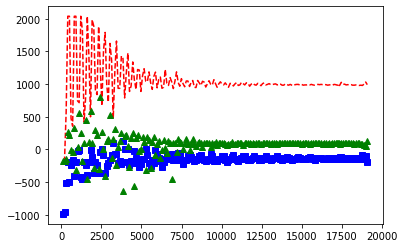
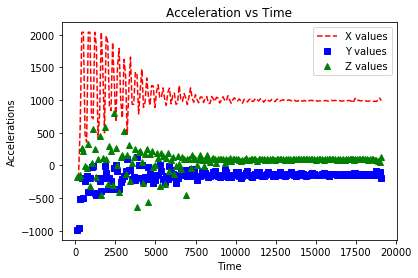
2.0

diff --git a/Step 4/analysis.py b/Step 4/analysis.py
@@ -28,10 +28,9 @@ def create_array(name):
     fout.close()
 
     array = np.loadtxt(outname, delimiter=",", dtype=float)
-    print(array)
     return array
 
-def acc_array():
+def acc_array(array):
     t = array[:,0]
     x = array[:,1]
     y = array[:,2]
@@ -39,11 +38,10 @@ def acc_array():
     plt.plot(t, x, 'r--', t, y, 'bs', t, z, 'g^')
     plt.xlabel('Time')
     plt.ylabel('Accelerations')
-    plt.axis([0,40000, 0, 4000])
+    plt.title('Acceleration vs Time')
+    plt.legend(('X values', 'Y values', 'Z values'))
     plt.show()
 
-create_array("receiver_data1.txt")
-acc_array()
 # =============================================================================
 # def theta_array(array):
 #     
